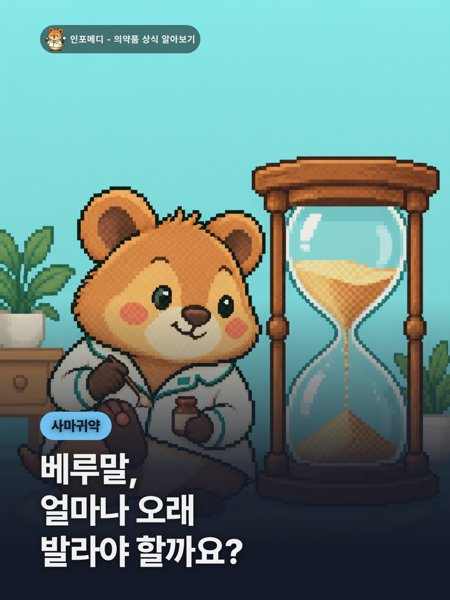
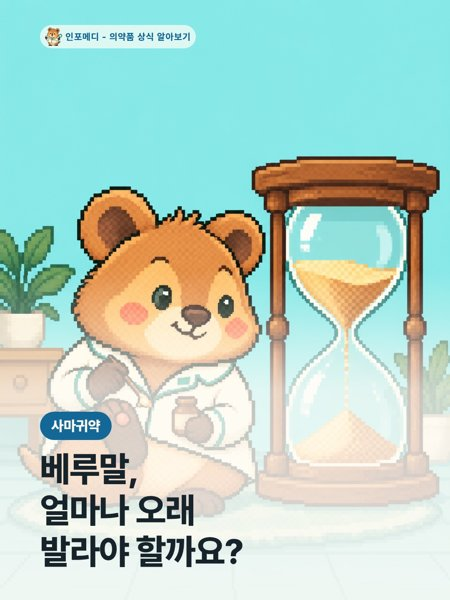
links

diff --git a/index.html b/index.html
@@ -34,7 +34,7 @@
 <section class="section">
 <h2>의약품 정보 <small id="count"></small></h2>
 <div class="grid" id="list">
-<a class="item" href="https://blog.naver.com/info_medi_/224422847269"><img src="c/베루말-white.jpg" alt="" loading="lazy">
+<a class="item" href="https://blog.naver.com/info_medi_/224422847269"><img src="c/베루말.jpg" alt="" loading="lazy">
 <span><b>베루말, 얼마나 오래 발라야 할까요?</b><small><time datetime="2026-10-04 13:35"></time></small></span></a>
 <a class="item" href="https://blog.naver.com/info_medi_/224422848348"><img src="c/이버멕틴크림.jpg" alt="" loading="lazy">
 <span><b>이버멕틴크림, 구충 성분을 왜 얼굴에 바를까요?</b><small><time datetime="2026-10-04 11:57"></time></small></span></a>
